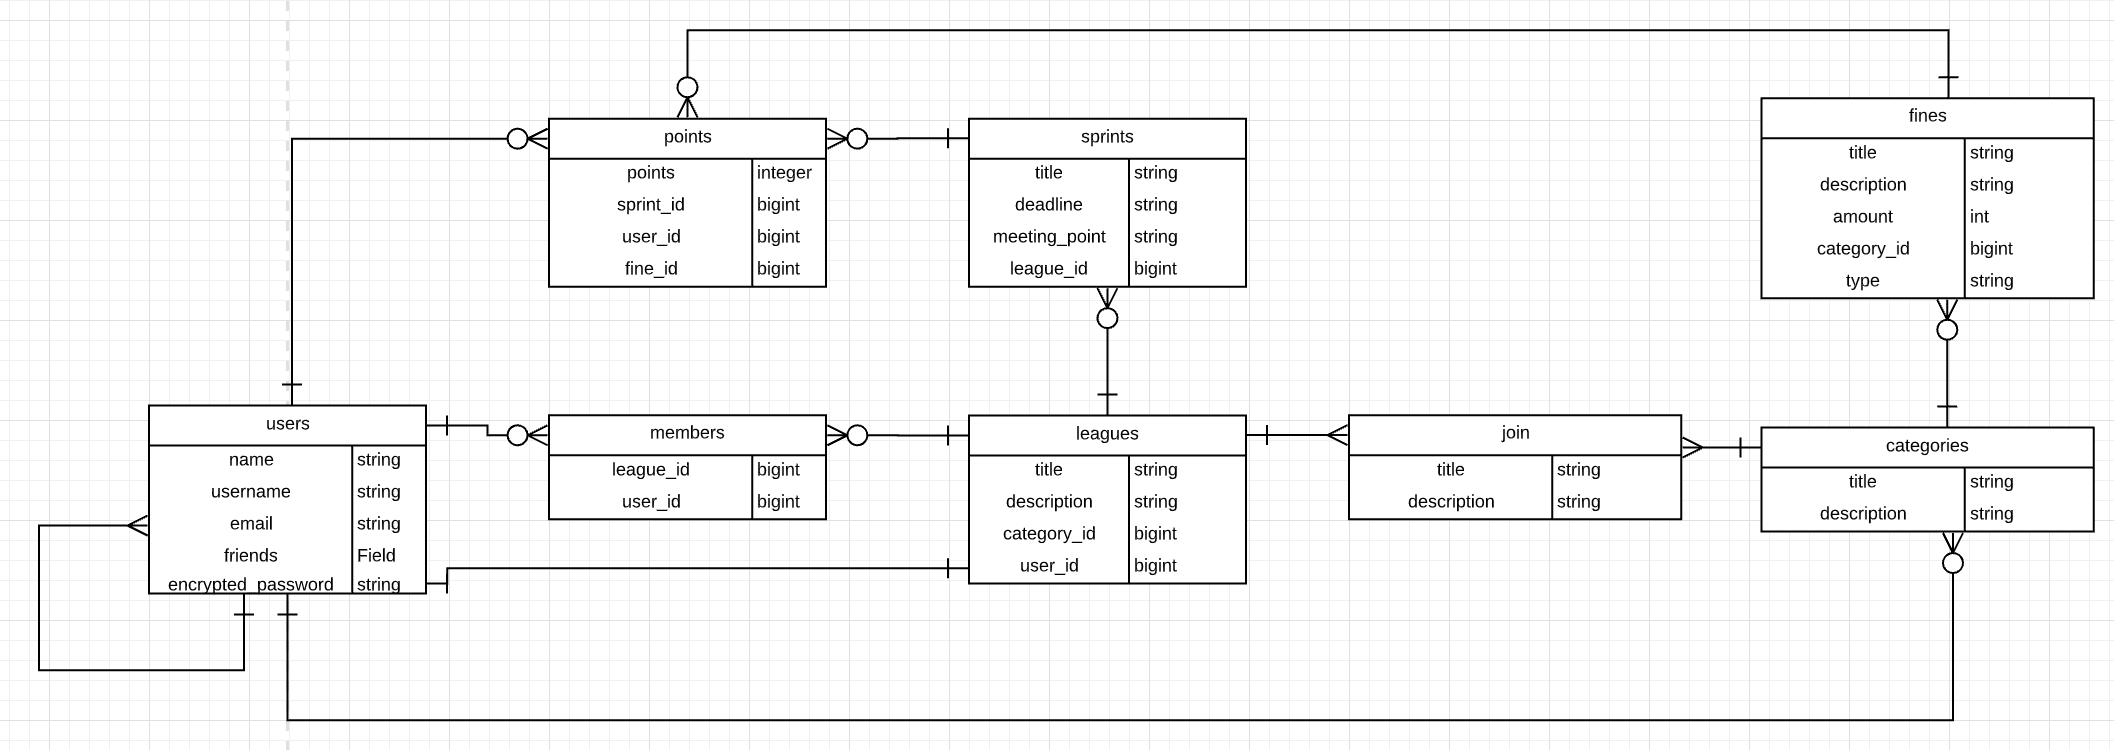
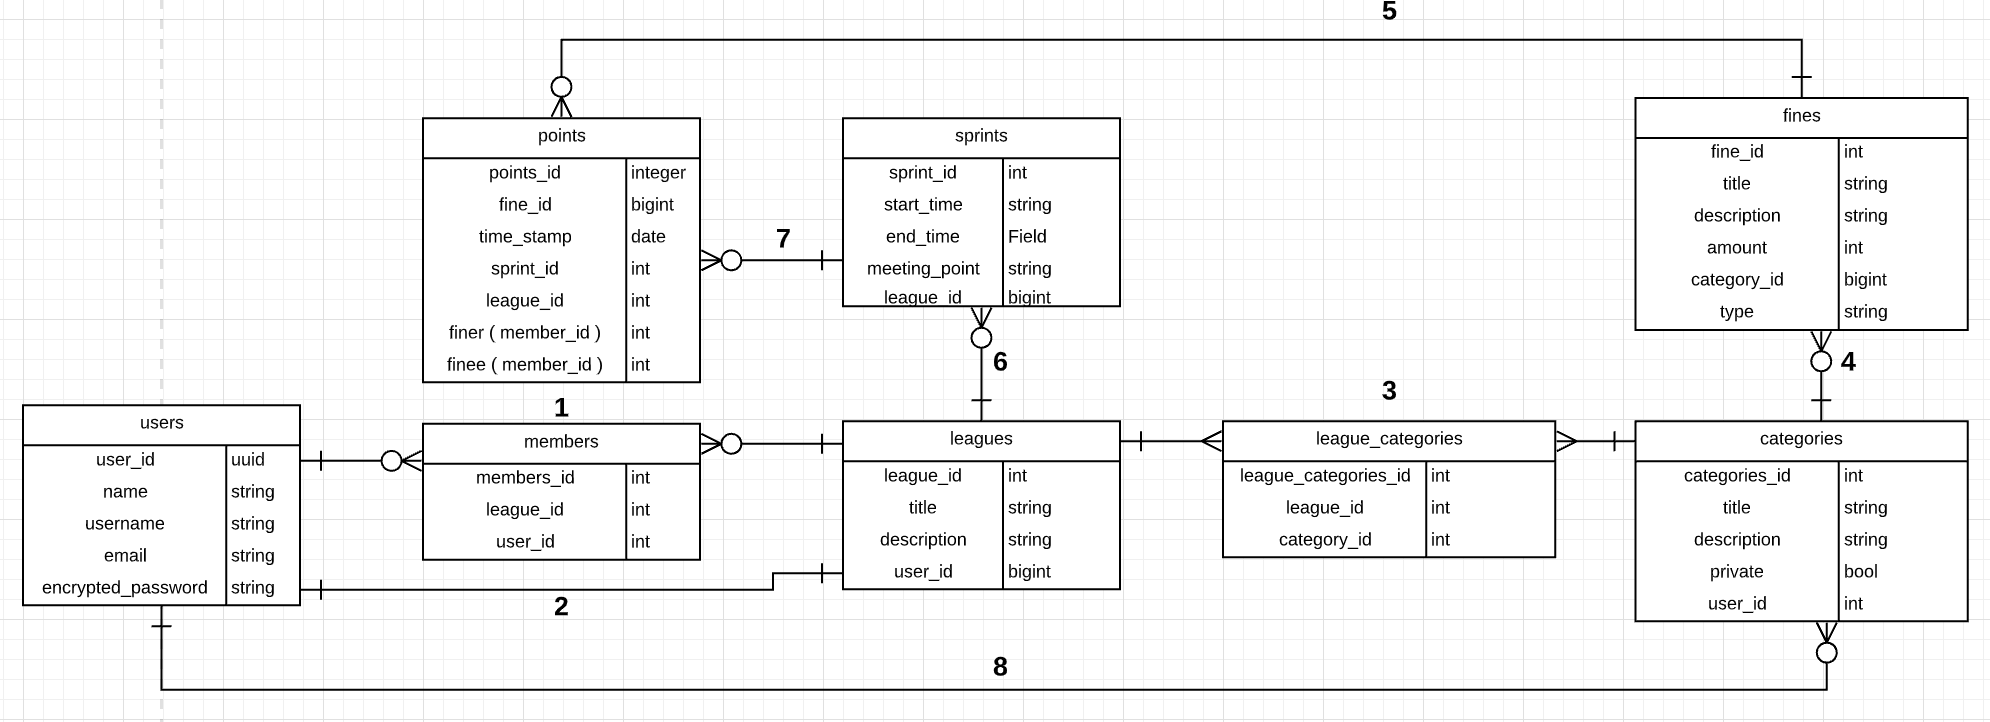
schema

diff --git a/readme.md b/readme.md
@@ -116,13 +116,13 @@ The last page of v1.0 of the app is the league view page. This shows a table of 
 
 ## WIP DB Schema
 
-1. A user can be a member of many leagues i.e. User has many leagues through members.
-2. A league has only 1 user. ie a league is owned by user.
-3. A league has many categories i.e. League has many categories though join.
+1. A user can be a member of many leagues
+2. A league has only 1 owner. ie a league is owned by user.
+3. A league has many categories i.e. League has many categories though league_categories.
 4. A category has many fines ( A fine can be regarded as a reward/fine ).
-5. This is an odd one
+5. Each 'point' has a fine associated with it and it an be awarded many times.
 6. A League has many sprints. A sprint is only associated with 1 league.
-7.
+7. A league has many points
 
 ![](docs/db/schema.png)
 
